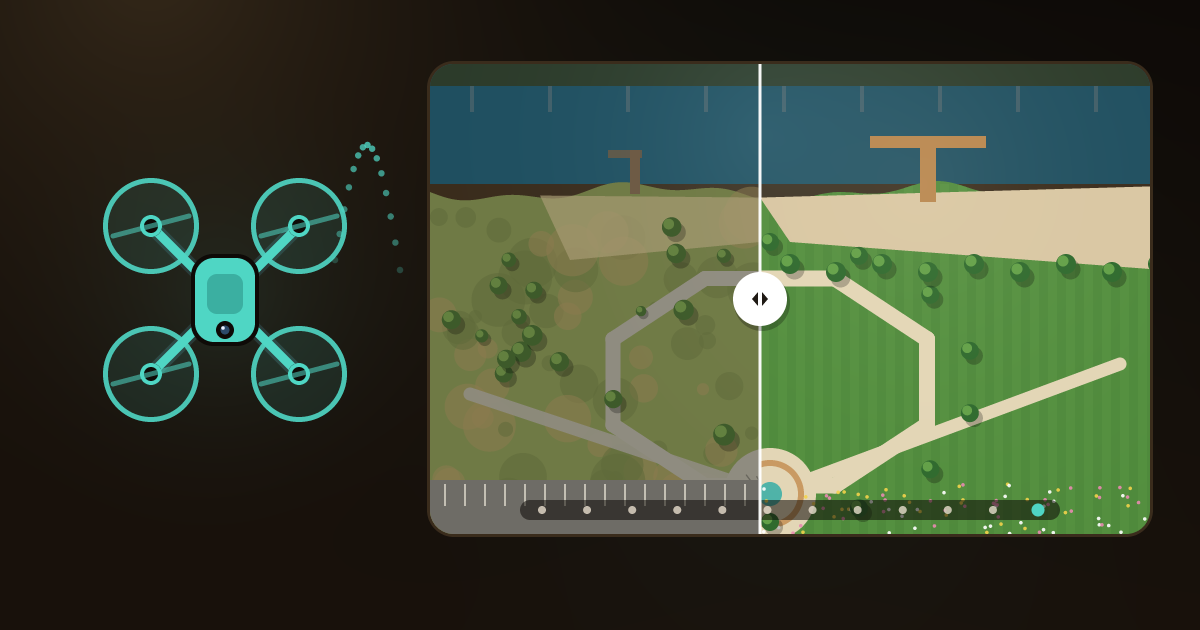
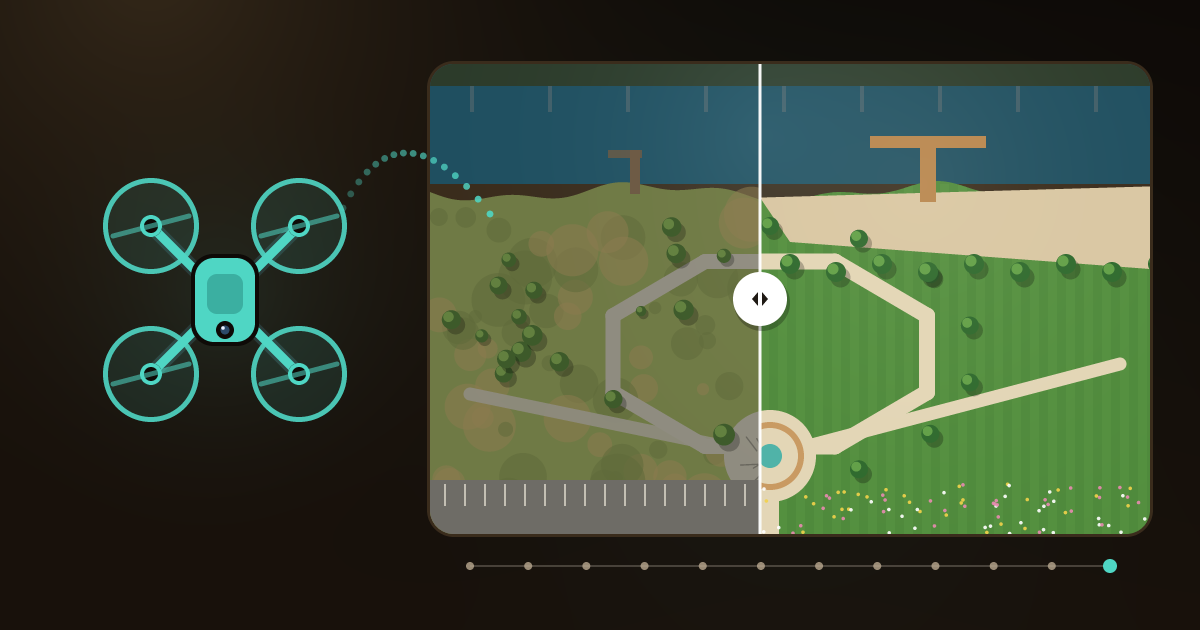
desk: Vantage room, in progress
Claude-Session: https://claude.ai/code/session_01Qu2Dyfn91U95Afg89CJKKi

diff --git a/vantage/make-og.js b/vantage/make-og.js
@@ -177,7 +177,6 @@ for (let k = 0; k < 26; k++) {                    // mowing stripes, after
 }
 /* the beach, after: a wedge of sand down to the water */
 P(poly([[CUT, shore(CUT) - 2], [PX + PW, shore(PX + PW) - 2], [PX + PW, PY + 205], [CUT + 30, PY + 178]]), "#d9c7a3", 1, R);
-P(poly([[CUT - 220, shore(CUT - 220) - 2], [CUT, shore(CUT) - 2], [CUT, PY + 178], [CUT - 190, PY + 196]]), "#a69a72", .7, L);
 /* the boardwalk out over the water, after; a broken dock, before */
 P(rect(CUT + 160, PY + 72, 16, 66), "#b8864e", 1, R);
 P(rect(CUT + 110, PY + 72, 116, 12), "#b8864e", 1, R);
@@ -188,22 +187,22 @@ P(rect(CUT - 152, PY + 86, 34, 8), "#6d5a44", .8, L);
 const LOOP = [];
 for (let k = 0; k <= 8; k++) {
   const a = -Math.PI / 2 + k * Math.PI / 4 + Math.PI / 8;
-  LOOP.push([CUT + 10 + 170 * Math.cos(a), PY + 318 + 112 * Math.sin(a)]);
+  LOOP.push([CUT + 10 + 170 * Math.cos(a), PY + 290 + 100 * Math.sin(a)]);
 }
 polyline(LOOP, 15, "#8f8c80", 1, L);
 polyline(LOOP, 16, "#e3d6b6", 1, R);
-polyline([[CUT + 10, PY + 430], [CUT + 10, PY + PH]], 18, "#8f8c80", 1, L);
-polyline([[CUT + 10, PY + 430], [CUT + 10, PY + PH]], 18, "#e3d6b6", 1, R);
-polyline([[CUT + 10, PY + 430], [PX + 40, PY + 330]], 13, "#8f8c80", .9, L);
-polyline([[CUT + 10, PY + 430], [PX + PW - 30, PY + 300]], 13, "#e3d6b6", 1, R);
-P(disc(CUT + 10, PY + 430, 46), "#8f8c80", 1, L);
-P(disc(CUT + 10, PY + 430, 46), "#e3d6b6", 1, R);
-P(ring(CUT + 10, PY + 430, 34, 6), "#c99a62", 1, R);
-P(disc(CUT + 10, PY + 430, 12), "#4fb3a8", 1, R);
+polyline([[CUT + 10, PY + 392], [CUT + 10, PY + PH]], 18, "#8f8c80", 1, L);
+polyline([[CUT + 10, PY + 392], [CUT + 10, PY + PH]], 18, "#e3d6b6", 1, R);
+polyline([[CUT + 10, PY + 392], [PX + 40, PY + 330]], 13, "#8f8c80", .9, L);
+polyline([[CUT + 10, PY + 392], [PX + PW - 30, PY + 300]], 13, "#e3d6b6", 1, R);
+P(disc(CUT + 10, PY + 392, 46), "#8f8c80", 1, L);
+P(disc(CUT + 10, PY + 392, 46), "#e3d6b6", 1, R);
+P(ring(CUT + 10, PY + 392, 34, 6), "#c99a62", 1, R);
+P(disc(CUT + 10, PY + 392, 12), "#4fb3a8", 1, R);
 for (let k = 0; k < 14; k++) {                    // cracks in the old plaza
   const a = rnd() * Math.PI * 2, r0 = rnd() * 30;
-  polyline([[CUT + 10 + r0 * Math.cos(a), PY + 430 + r0 * Math.sin(a)],
-    [CUT + 10 + (r0 + 16) * Math.cos(a + .3), PY + 430 + (r0 + 16) * Math.sin(a + .3)]], 1.4, "#5f5d55", .8, L);
+  polyline([[CUT + 10 + r0 * Math.cos(a), PY + 392 + r0 * Math.sin(a)],
+    [CUT + 10 + (r0 + 16) * Math.cos(a + .3), PY + 392 + (r0 + 16) * Math.sin(a + .3)]], 1.4, "#5f5d55", .8, L);
 }
 /* a parking lot, before; a meadow, after */
 P(rect(PX, PY + PH - 54, CUT - PX, 54), "#6e6c66", 1, L);
@@ -223,19 +222,20 @@ function tree(x, y, r, side, dark, light) {
 seed = 3;
 for (let k = 0; k < 18; k++) tree(PX + 20 + rnd() * (CUT - PX - 30), PY + 150 + rnd() * 250, 5 + rnd() * 6, L, "#3d5a2a", "#6b8a44");
 for (let k = 0; k < 14; k++) {
+  if (k === 7) continue;                          // that one would stand in the plaza
   const a = -Math.PI / 2 + k * Math.PI * 2 / 14;
-  tree(CUT + 10 + 205 * Math.cos(a), PY + 318 + 140 * Math.sin(a), 9, R, "#2f6a2e", "#6fae4e");
+  tree(CUT + 10 + 205 * Math.cos(a), PY + 290 + 128 * Math.sin(a), 9, R, "#2f6a2e", "#6fae4e");
 }
 for (let k = 0; k < 9; k++) tree(CUT + 30 + k * 46, PY + 200 + (k % 2) * 8, 10, R, "#2f6a2e", "#6fae4e");
 
 /* the light falls the same way on both: one camera, one sun */
 glow("#fff1d6", CUT + 160, PY + 120, 420, .08, ALL);
 
-/* the calendar rail: twelve flights, the last one lit */
-P(rrect(PX + 90, PY + PH - 34, PW - 180, 20, 10), "#0e0a07", .55, ALL);
+/* the calendar rail under it: twelve flights, the last one lit */
+P(rect(PX + 40, PY + PH + 31, PW - 80, 2), "#f4e9d8", .22);
 for (let k = 0; k < 12; k++) {
-  const x = PX + 112 + k * ((PW - 224) / 11);
-  P(disc(x, PY + PH - 24, k === 11 ? 6.5 : 4), k === 11 ? "#4fd6c4" : "#f4e9d8", k === 11 ? 1 : .75, ALL);
+  const x = PX + 40 + k * ((PW - 80) / 11);
+  P(disc(x, PY + PH + 32, k === 11 ? 7 : 4), k === 11 ? "#4fd6c4" : "#b9a88f", k === 11 ? 1 : .8);
 }
 
 /* the curtain */
@@ -267,9 +267,11 @@ P(disc(DX, DY + 30, 9), "#0e0a07");               // the camera, looking down
 P(disc(DX, DY + 30, 4.5), "#2c4a6a");
 P(disc(DX - 2, DY + 28, 1.8), "#e9f1ff");
 /* and the way it flies: the same route, every time */
-for (let k = 0; k < 15; k++) {
-  const t = k / 14, x = DX + 110 + t * (PX - DX - 140), y = DY - 40 - Math.sin(t * Math.PI) * 120 + t * 10;
-  P(disc(x, y, 3.2), TEAL, .25 + .55 * (1 - Math.abs(t - .5) * 2) ** .5);
+for (let k = 0; k < 16; k++) {                   // a quadratic arc from the drone into the picture
+  const t = k / 15, a = [DX + 118, DY - 92], c = [DX + 175, DY - 205], b = [PX + 60, PY + 150];
+  const x = (1 - t) ** 2 * a[0] + 2 * (1 - t) * t * c[0] + t * t * b[0];
+  const y = (1 - t) ** 2 * a[1] + 2 * (1 - t) * t * c[1] + t * t * b[1];
+  P(disc(x, y, 3.4), TEAL, .3 + .6 * t);
 }
 
 /* ---------- out ---------- */

diff --git a/vantage/index.html b/vantage/index.html
@@ -12,14 +12,14 @@
 <meta property="og:title" content="Vantage — a year over one site, in one scroll">
 <meta property="og:description" content="An open-source engine that turns repeat drone flights over a changing site into a story you scroll on a phone, plus the films and an offline copy. The demo is simulated.">
 <meta property="og:url" content="https://kmay89.com/vantage/">
-<meta property="og:image" content="https://kmay89.com/vantage/og.jpg">
+<meta property="og:image" content="https://kmay89.com/vantage/og.png">
 <meta property="og:image:width" content="1200">
 <meta property="og:image:height" content="630">
-<meta property="og:image:alt" content="The same aerial view of a made-up park, first flight and last, split down the middle — with the line: a year over one site, in one scroll.">
+<meta property="og:image:alt" content="A drawn aerial view of a made-up lakeside park, split by a curtain: rough ground on the left, the finished park on the right, a little teal drone beside it and a row of twelve flight dates underneath.">
 <meta name="twitter:card" content="summary_large_image">
 <meta name="twitter:title" content="Vantage — a year over one site, in one scroll">
 <meta name="twitter:description" content="Repeat drone flights over a changing site, turned into a story you scroll on a phone. Open source; the demo is simulated.">
-<meta name="twitter:image" content="https://kmay89.com/vantage/og.jpg">
+<meta name="twitter:image" content="https://kmay89.com/vantage/og.png">
 <link rel="apple-touch-icon" href="/apple-touch-icon.png">
 <title>Vantage — a year over one site, in one scroll</title>
 <style>
@@ -203,7 +203,7 @@
     <figure class="curtain" id="curtain">
       <div class="frame" style="--cut:50%">
         <img src="stills/after.jpg" width="960" height="600" alt="Last flight: the same view, finished — a beach, a round plaza, new paths and young trees, people on the sand.">
-        <img class="before" src="stills/before.jpg" width="960" height="600" alt="First flight: the site before work began — rough grass, cracked paths and empty concrete basins beside a lake.">
+        <img class="before" src="stills/before.jpg" width="960" height="600" alt="First flight: the site before work began — rough grass, cracked paths and old concrete beside a lake.">
         <span class="handle" aria-hidden="true"></span>
         <span class="tag l" aria-hidden="true">First flight</span>
         <span class="tag r" aria-hidden="true">Last flight</span>
